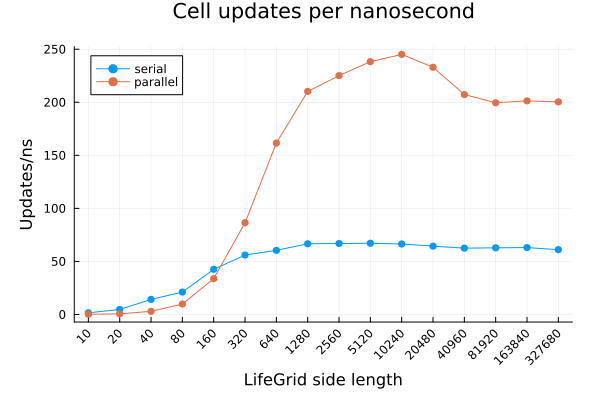
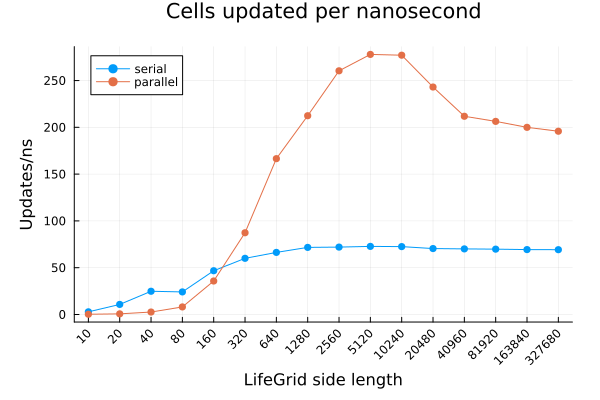
Benchmark graphs

diff --git a/README.md b/README.md
@@ -21,10 +21,10 @@ lg = LifeGrid(35, 35)
 insert!(lg, 11, 11, LifePatterns.pulsar)
 
 # Put gliders at each corner, each closer to the pulsar by one cell
-insert!(lg,  1,  1, LifePatterns.glider)
-insert!(lg, 32,  1, LifePatterns.glider[end:-1:begin,:])
-insert!(lg,  2, 32, LifePatterns.glider[:,end:-1:begin])
-insert!(lg, 31, 32, LifePatterns.glider[end:-1:begin,end:-1:begin])
+insert!(lg,  1,  1, LifePatterns.glider1)
+insert!(lg, 32,  1, LifePatterns.glider6)
+insert!(lg,  2, 32, LifePatterns.glider2)
+insert!(lg, 31, 32, LifePatterns.glider5)
 
 # Animate the resultant simulation
 @gif for _ in 1:300
